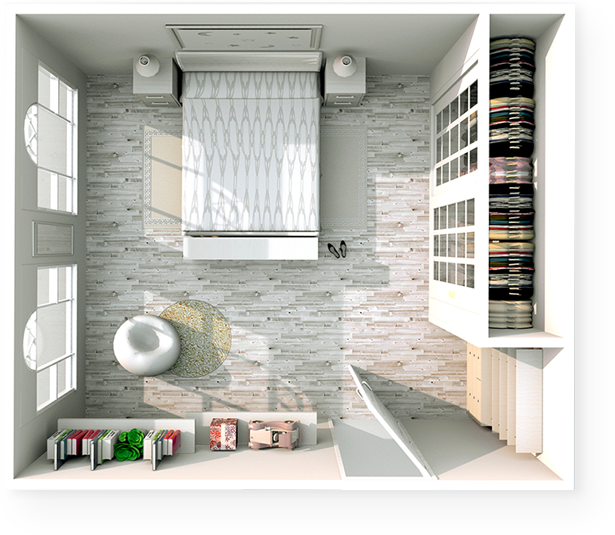
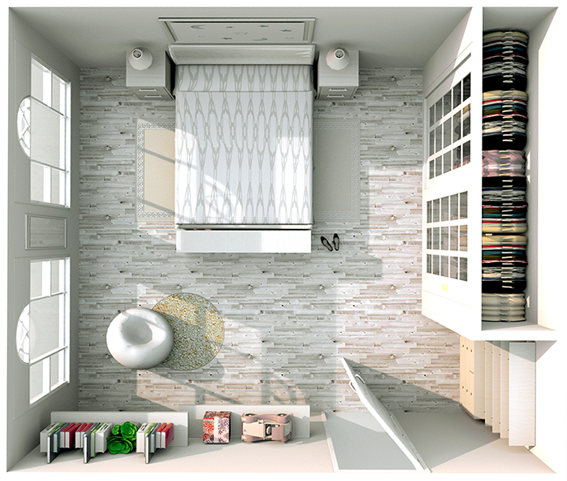
внес правки касаемо отступов

diff --git a/src/css/style.css b/src/css/style.css
@@ -27,7 +27,7 @@ body {
 }
 
 img {
-  max-width: 109%;
+  max-width: 100%;
 }
 
 .container {
@@ -81,6 +81,12 @@ img {
 .section-subtitle {
   font-size: 16px;
   display: block;
+}
+
+@media (max-width: 768px) {
+  .section {
+    padding: 0;
+  }
 }
 
 .input {
@@ -150,6 +156,7 @@ img {
   margin-left: 30px;
   font-family: 'Museo Sans Bold', sans-serif;
   font-size: 13px;
+  outline: none;
 }
 
 .navbar__phone {
@@ -158,6 +165,7 @@ img {
   margin-top: 10px;
   font-size: 20px;
   text-decoration: none;
+  font-family: 'Museo Sans Bold', sans-serif;
 }
 
 @media (max-width: 768px) {
@@ -188,6 +196,15 @@ img {
   padding-top: 50px;
   padding-bottom: 0px;
   background-color: #f5f5f5;
+}
+
+.hero-image {
+  margin-bottom: 52px;
+}
+
+.hero-image__shadow {
+  -webkit-box-shadow: 7px 5px 10px rgba(0, 0, 0, 0.05), 16px 22px 35px rgba(0, 0, 0, 0.05);
+          box-shadow: 7px 5px 10px rgba(0, 0, 0, 0.05), 16px 22px 35px rgba(0, 0, 0, 0.05);
 }
 
 .hero-block {
@@ -297,7 +314,6 @@ img {
     font-size: 24px;
     line-height: 1.4;
     margin-bottom: 5px;
-    margin-top: 0px;
   }
   .hero-text__subtitle {
     font-size: 16px;
@@ -358,6 +374,7 @@ img {
 .offer__input {
   margin-bottom: 30px;
   width: 240px;
+  outline: none;
 }
 
 .offer__input:first-child {
@@ -368,6 +385,7 @@ img {
   width: 100%;
   min-height: 70px;
   font-family: 'Museo Sans Bold', sans-serif;
+  outline: none;
 }
 
 .offer__phone {
@@ -388,6 +406,11 @@ img {
 
 .offer__phone-callback-number {
   font-family: 'Museo Sans Bold', sans-serif;
+}
+
+a {
+  text-decoration: none;
+  color: black;
 }
 
 @media (max-width: 1200px) {
@@ -422,6 +445,7 @@ img {
     font-size: 18px;
     line-height: 23px;
     margin-bottom: 17px;
+    margin-top: 52px;
   }
   .offer__subtitle {
     font-size: 14px;
@@ -447,6 +471,7 @@ img {
   }
   .offer__phone-callback {
     margin-top: 5px;
+    margin-bottom: 56px;
   }
 }
 
@@ -483,6 +508,11 @@ img {
   right: 0;
 }
 
+.modal-dialog__close:hover {
+  opacity: 0.7;
+  cursor: pointer;
+}
+
 /* Стили для модального окна */
 .portfolio {
   background: url("../img/portfolio-pattern.jpg") repeat-y center left #f5f5f5;
@@ -492,6 +522,12 @@ img {
 .portfolio__title {
   margin: auto;
   margin-bottom: 100px;
+}
+
+@media (max-width: 567px) {
+  .portfolio {
+    padding-top: 43px;
+  }
 }
 
 .slider__image {
@@ -504,8 +540,16 @@ img {
   margin-top: 20px;
 }
 
+.arrows__left:hover {
+  opacity: 0.7;
+}
+
 .arrows__right {
   margin-top: 20px;
+}
+
+.arrows__right:hover {
+  opacity: 0.7;
 }
 
 .price__title {
@@ -513,6 +557,7 @@ img {
   font-size: 30px;
   font-family: 'Museo Sans Bold', sans-serif;
   margin-bottom: 58px;
+  margin-top: 52px;
 }
 
 .price__subtitle {
@@ -568,6 +613,7 @@ img {
 
 .card__image-block {
   display: block;
+  max-width: 100%;
 }
 
 .card__link {
@@ -681,6 +727,9 @@ img {
   }
   .step:after {
     display: none;
+  }
+  .steps__title {
+    margin-top: 52px;
   }
   .steps-block {
     -webkit-box-orient: vertical;

diff --git a/src/index.html b/src/index.html
@@ -33,9 +33,7 @@
 				<div class="navbar__info">
 					<div class="navbar__contacts">
 						<span class="navbar__address">Калуга, Москва, МО</span>
-						<a href="tel:+7(495)42-251-31" class="navbar__phone">
-							+7 (495) 42-251-31
-						</a>
+						<a href="tel:+7(495)42-251-31" class="navbar__phone">+7 (495) 42-251-31</a>
 					</div>
 					<!-- /.navbar__contacts -->
 					<button class="button navbar__button" id="button">
@@ -83,7 +81,7 @@
 							</li>
 						</ul>
 					</div>
-					<div class="hero-image"><img src="img/hero-image.png" alt="План квартиры"></div>
+					<div class="hero-image"><img src="img/hero-image.png" class="hero-image__shadow" alt="План квартиры"></div>
 					<!-- /.hero-image -->
 				</div>
 				<!-- /.hero-block -->
@@ -108,8 +106,8 @@
 				</form>
 				<div class="offer__phone">
 					<span class="offer__phone-call"> Наш менеджер перезвонит Вам<br>в течение 60 секунд</span>
-					<span class="offer__phone-callback"> или перезвоните нам сами<br><span class="offer__phone-callback-number">+7
-							(495) 42-251-31</span></span>
+					<span class="offer__phone-callback"> или перезвоните нам сами<br><a href="tel:+7(495)42-251-31" class="offer__phone-callback-number">+7
+							(495) 42-251-31</a></span>
 				</div>
 			</div>
 		</div>

diff --git a/src/sass/_offer.sass b/src/sass/_offer.sass
@@ -27,12 +27,14 @@
     &__input
         margin-bottom: 30px
         width: 240px
+        outline: none
         &:first-child   
             margin-right: 10px
     &__button
         width: 100%
         min-height: 70px
         +bold
+        outline: none
     &__phone
         display: flex
         justify-content: space-between
@@ -43,6 +45,10 @@
             margin-right: 10px
             &-number
                 +bold
+a
+    text-decoration: none
+    color: black
+
 @media (max-width: 1200px)
     .offer
         background-size: cover
@@ -66,6 +72,7 @@
             font-size: 18px
             line-height: 23px
             margin-bottom: 17px
+            margin-top: 52px
         &__subtitle
             font-size: 14px
         &__input
@@ -82,6 +89,7 @@
                 margin-top: -5px
             &-callback
                 margin-top: 5px
+                margin-bottom: 56px
 
         
 

diff --git a/src/sass/_hero.sass b/src/sass/_hero.sass
@@ -2,6 +2,10 @@
     padding-top: 50px
     padding-bottom: 0px
     background-color: $secondary
+    &-image
+        margin-bottom: 52px
+        &__shadow
+            box-shadow: 7px 5px 10px rgba(0, 0, 0, 0.05), 16px 22px 35px rgba(0, 0, 0, 0.05)
     &-block
         display: flex
     &-text
@@ -67,7 +71,6 @@
                 font-size: 24px
                 line-height: 1.4
                 margin-bottom: 5px
-                margin-top: 0px
             &__subtitle
                 font-size: 16px
                 margin-bottom: 30px

diff --git a/src/sass/_portfolio.sass b/src/sass/_portfolio.sass
@@ -4,6 +4,9 @@
     &__title
         margin: auto
         margin-bottom: 100px
+@media (max-width: 567px)
+    .portfolio
+        padding-top: 43px
 .slider
     &__image
         display: block
@@ -12,5 +15,9 @@
 .arrows
     &__left
         margin-top: 20px
+        &:hover
+            opacity: 0.7
     &__right
         margin-top: 20px
+        &:hover
+            opacity: 0.7

diff --git a/src/sass/_interface.sass b/src/sass/_interface.sass
@@ -1,11 +1,9 @@
 *
     box-sizing: border-box    
-
-    
 body
     +reg
 img
-    max-width: 109%
+    max-width: 100%
 .container
     width: 1170px
     margin: auto
@@ -38,6 +36,9 @@ img
     &-subtitle
         font-size: 16px
         display: block
+@media (max-width: 768px)
+    .section 
+        padding: 0
 .input
     border: 1px solid $border-input
     padding: 22px 26px

diff --git a/src/sass/_price.sass b/src/sass/_price.sass
@@ -4,6 +4,7 @@
         font-size: 30px
         +bold
         margin-bottom: 58px
+        margin-top: 52px
     &__subtitle
         text-align: center
         margin-bottom: 59px
@@ -36,6 +37,7 @@
             opacity: 0
         &-block
             display: block
+            max-width: 100%
     &__link
         display: inline-block
         +bold

diff --git a/src/sass/_navbar.sass b/src/sass/_navbar.sass
@@ -16,12 +16,14 @@
         margin-left: 30px
         +bold
         font-size: 13px
+        outline: none
     &__phone
         display: inline-block
         color: $text-color
         margin-top: 10px
         font-size: 20px
         text-decoration: none
+        +bold
 @media (max-width: 768px)
     .navbar
         &__button

diff --git a/src/sass/_steps.sass b/src/sass/_steps.sass
@@ -43,6 +43,8 @@
         &:after
             display: none
         &s
+            &__title
+                margin-top: 52px
             &-block
                 flex-direction: column
 @media (max-width: 1200px)

diff --git a/src/sass/_modal.sass b/src/sass/_modal.sass
@@ -20,3 +20,6 @@
             position: absolute
             top: 0
             right: 0
+            &:hover
+                opacity: 0.7
+                cursor: pointer
